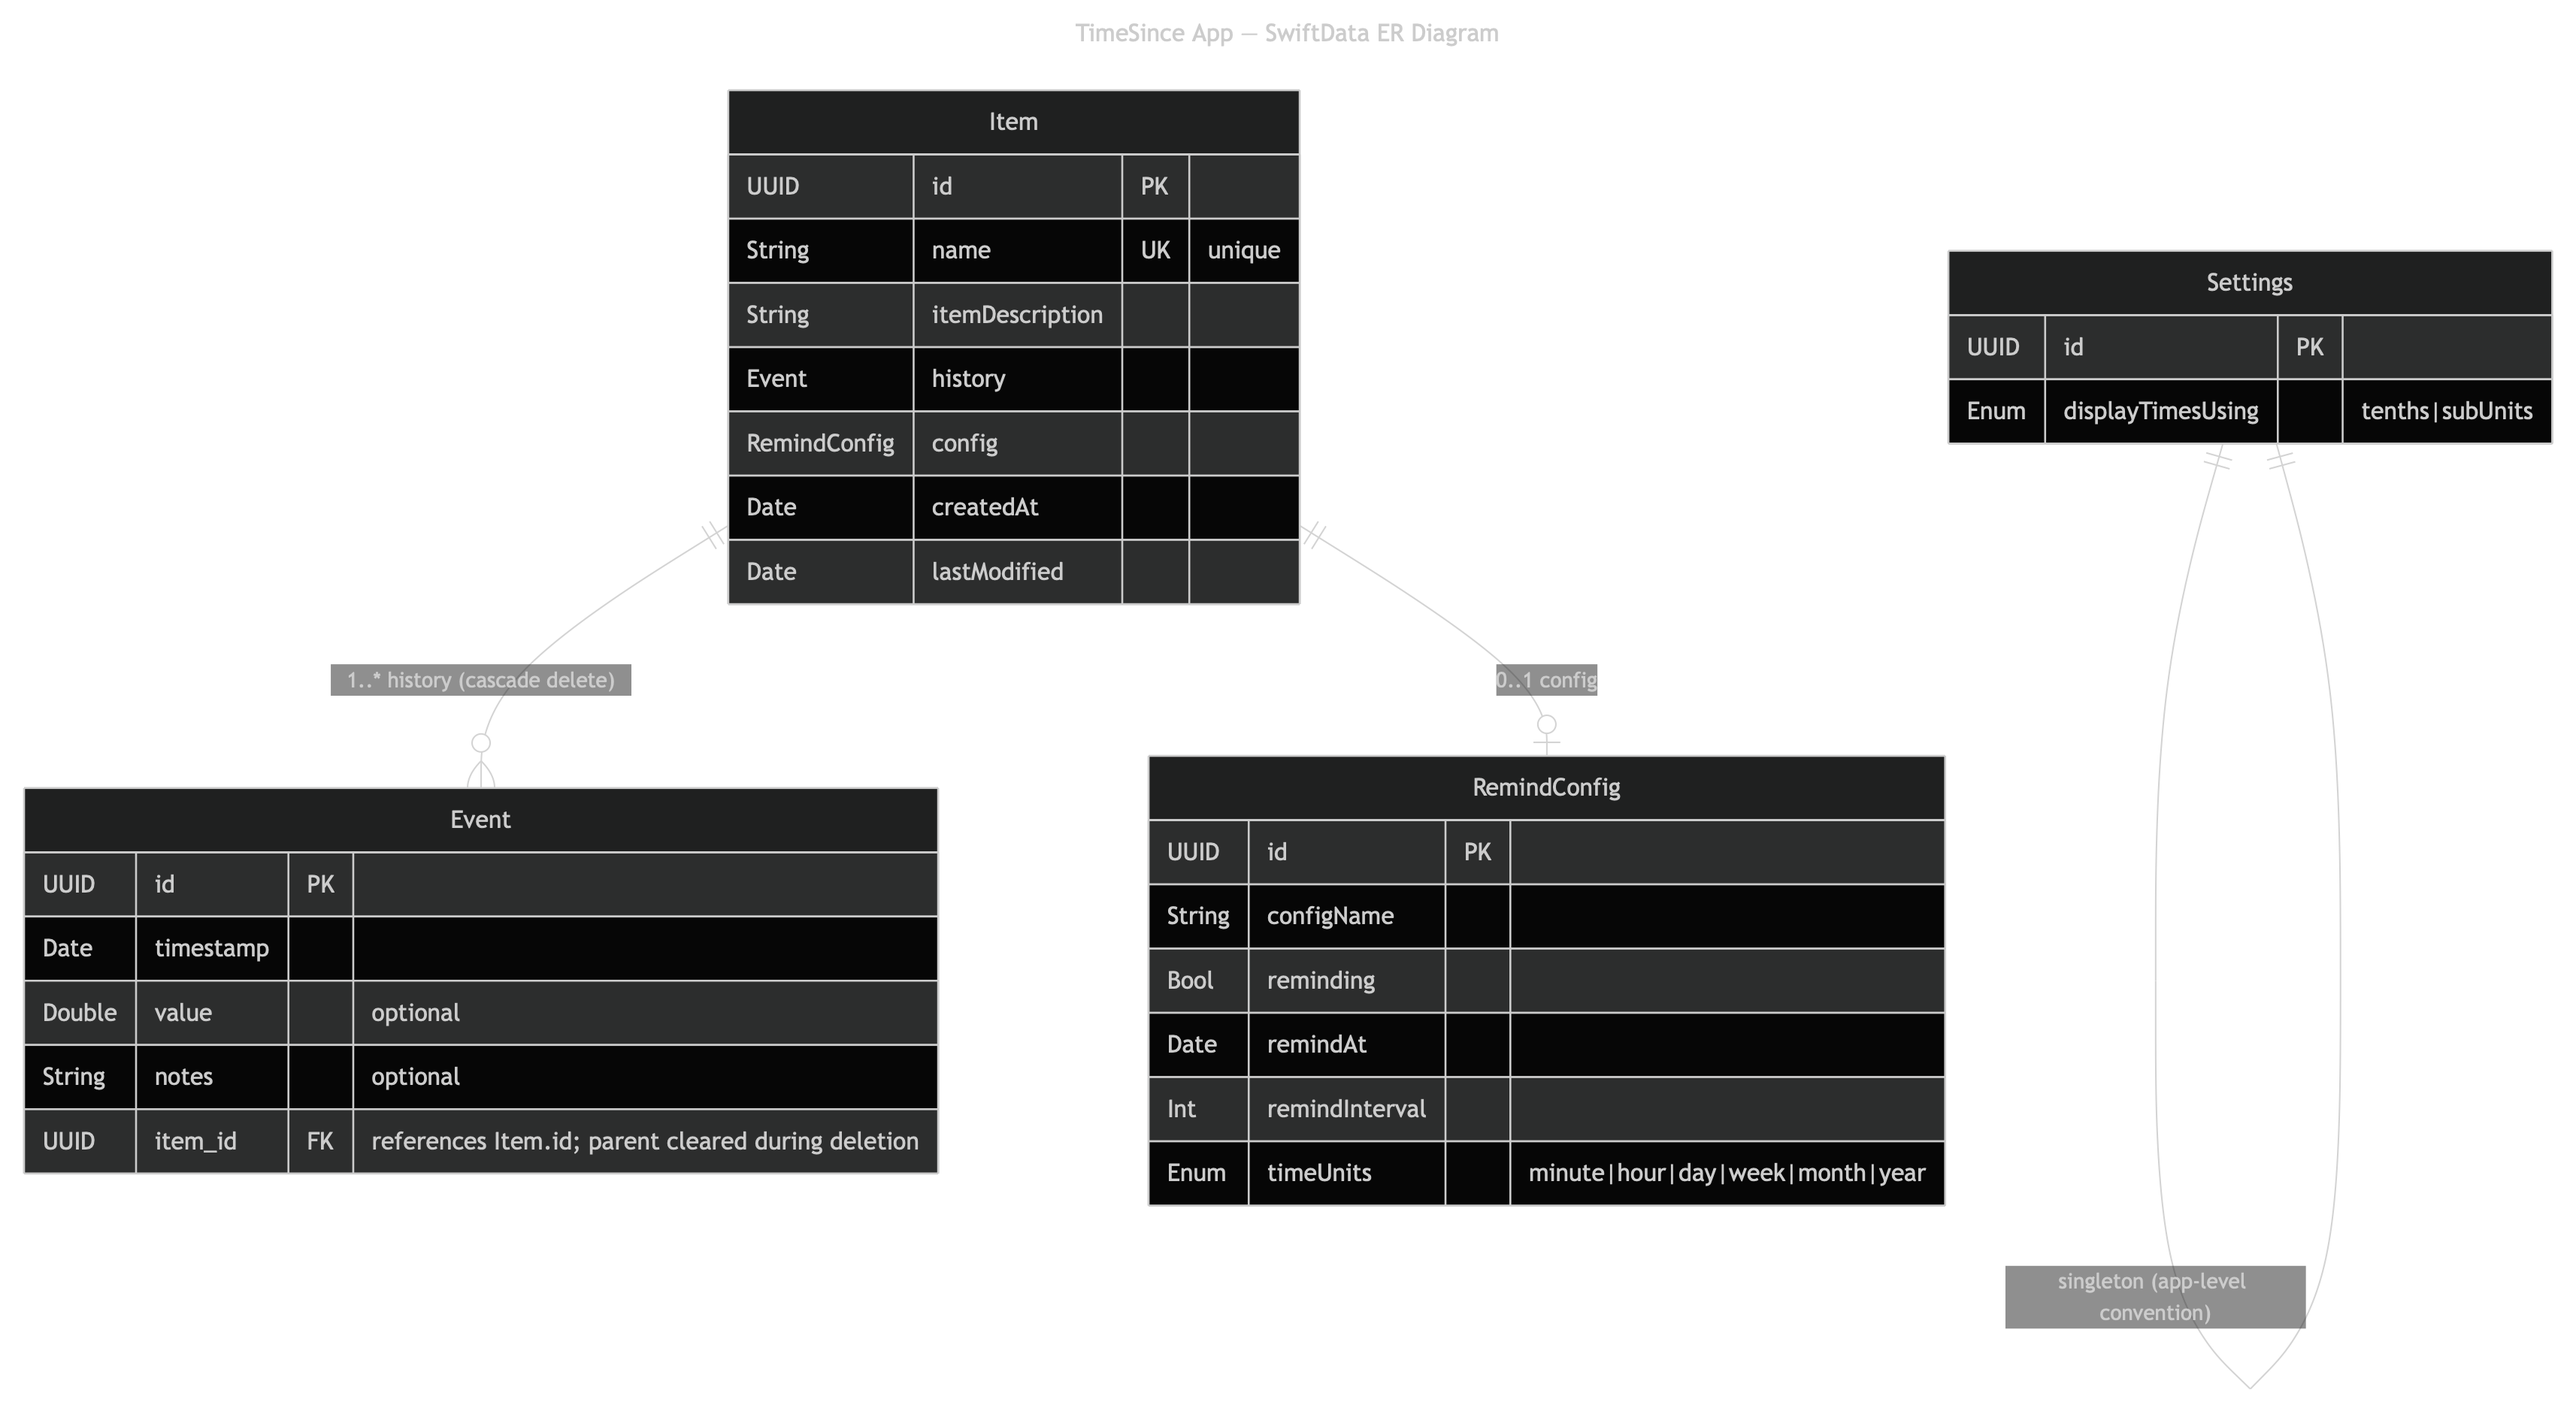
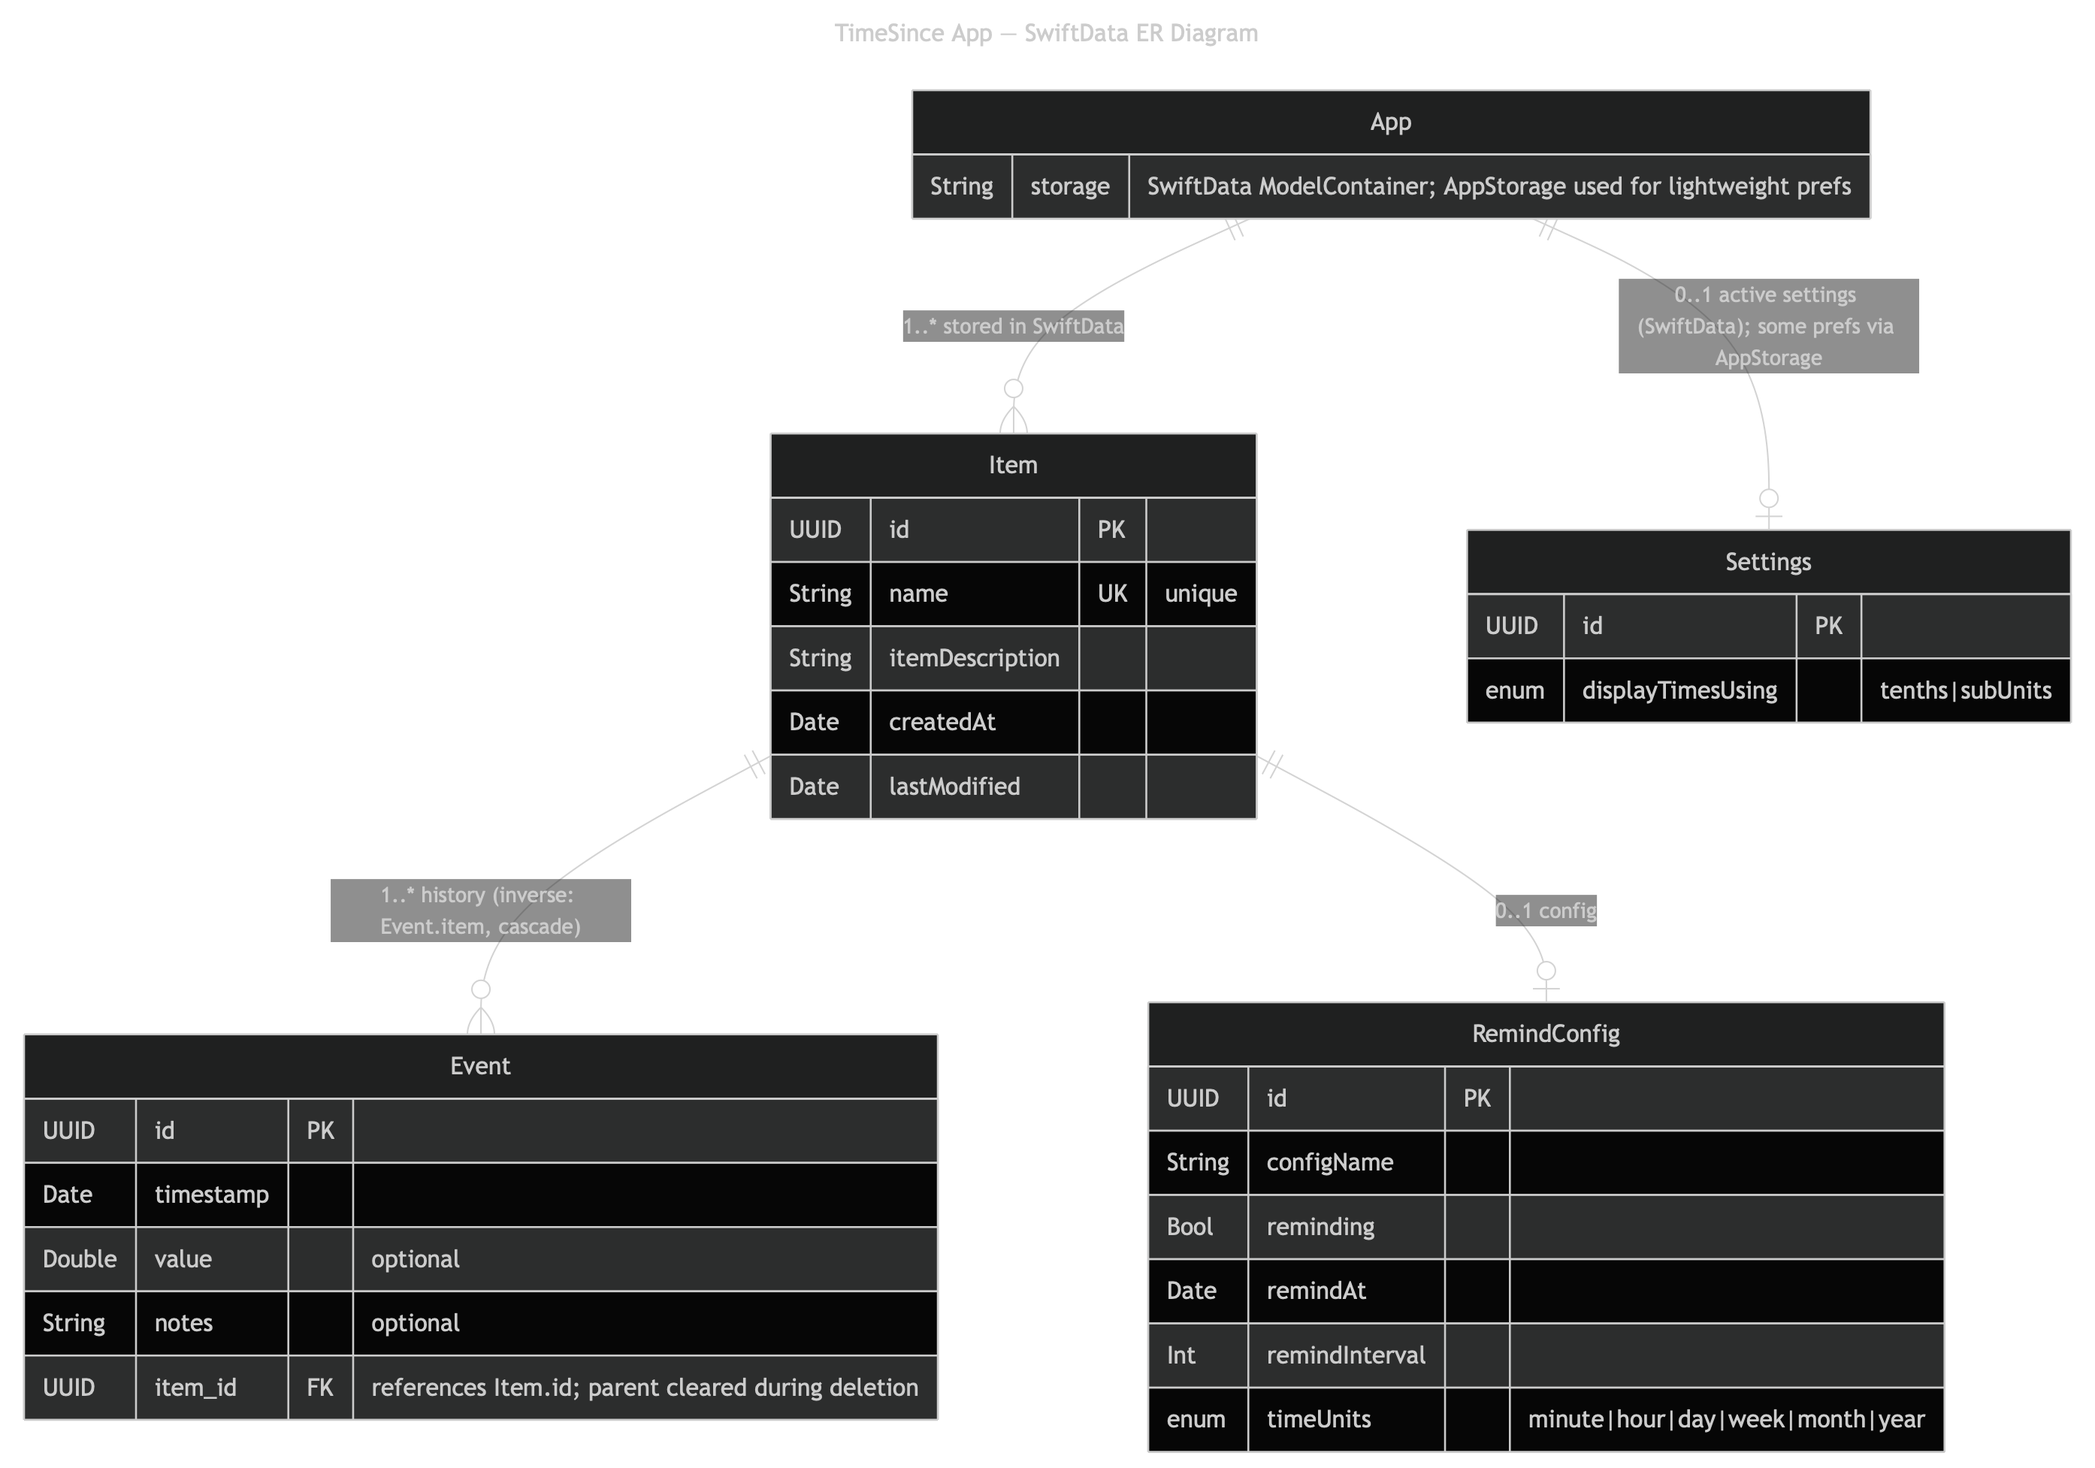
added docs/Schema/README.md and docs/Schema/SchemaV1.md and primary README.md files. This documents SchemaV1 and prepares us for schema evolution in the future.

diff --git a/docs/README.md b/docs/README.md
@@ -1,0 +1,104 @@
+# TimeSince
+
+A SwiftUI app using SwiftData to track items and the time since events, with optional reminders. This repository documents the storage model, schema evolution, and architecture so future migrations are intentional and well-tested.
+
+## Platforms & Requirements
+- iOS 18+ (SwiftUI, SwiftData)
+- Xcode 26+
+- Swift 6.2+
+
+## Architecture Overview
+- **UI**: SwiftUI views with state driven by observable models.
+- **Data**: SwiftData `ModelContainer` for persisted entities; lightweight preferences via `@AppStorage`.
+- **Models**: `Item`, `Event`, `RemindConfig`, `Settings` (see Schema V1 below).
+- **Reminders**: App-level configuration to schedule reminders from `RemindConfig`.
+- **Testing**: Unit and snapshot-style tests planned; schema verification covered by fixtures.
+
+## Models & Storage
+- Storage uses SwiftData with a single `ModelContainer`.
+- Lightweight preferences use `AppStorage` for non-relational flags and UI choices.
+- Entities:
+  - `Item`: unique name, description, timestamps; 1..* relationship to `Event`; optional 0..1 `RemindConfig`.
+  - `Event`: timestamped entries associated to an `Item` (optional back-reference to allow parent clearing on delete), optional value/notes.
+  - `RemindConfig`: enables reminders for an item with interval and unit.
+  - `Settings`: global display settings for times.
+
+## Schema Versioning
+We keep schema versions under `docs/Schema` as V1, V2, ... Each version contains:
+- A locked Mermaid ER diagram derived from model source code.
+- A PNG snapshot exported from the Mermaid diagram (for quick viewing in GitHub).
+- Notes about delete rules, uniqueness, and optionality.
+- Migration plan from the previous version.
+
+Authoritative source of truth is the model code. Diagrams and PNGs are artifacts generated from code.
+
+Current version: **SchemaV1**.
+
+See: `docs/Schema/SchemaV1.md` for the pinned diagram and notes.
+
+# TimeSince App — ER Diagram
+Open with MarkChart for viewing
+
+## Current Schema (SchemaV1)
+The diagram below mirrors the current SwiftData models. The Mermaid source is embedded so it can be rendered by GitHub or tools like MarkChart.
+
+```mermaid
+---
+title: TimeSince App — SwiftData ER Diagram (SchemaV1)
+---
+erDiagram
+    %% Legend:
+    %% - || = exactly one, o| = zero or one, o{ = zero or many
+    %% - Relationship labels include cardinalities, delete rules, and inverses
+
+    %% Pseudo-entity representing app-level storage and configuration
+    App {
+        String storage "SwiftData ModelContainer; AppStorage used for lightweight prefs"
+    }
+
+    %% Entities
+    Item {
+        UUID id PK
+        String name UK "unique"
+        String itemDescription
+        Date createdAt
+        Date lastModified
+    }
+
+    Event {
+        UUID id PK
+        Date timestamp
+        Double value "optional"
+        String notes "optional"
+        UUID item_id FK "references Item.id; parent cleared during deletion"
+    }
+
+    RemindConfig {
+        UUID id PK
+        String configName
+        Bool reminding
+        Date remindAt
+        Int remindInterval
+        enum timeUnits "minute|hour|day|week|month|year"
+    }
+
+    Settings {
+        UUID id PK
+        enum displayTimesUsing "tenths|subUnits"
+    }
+
+    %% Relationships with explicit cardinalities
+    App ||--o{ Item : "1..* stored in SwiftData"
+    App ||--o| Settings : "0..1 active settings (SwiftData); some prefs via AppStorage"
+
+    Item ||--o{ Event : "1..* history (inverse: Event.item, cascade)"
+    Item ||--o| RemindConfig : "0..1 config"
+
+    %% Additional Notes (as comments)
+    %% - Item.name is unique (@Attribute(.unique))
+    %% - Item.history inverse is Event.item; deleteRule: .cascade
+    %% - Event.item is optional to allow SwiftData to clear the parent during deletion
+    %% - RemindConfig.timeUnits uses Units enum: minute|hour|day|week|month|year
+    %% - Settings.displayTimesUsing uses DisplayTimesUsing enum: tenths|subUnits
+    %% - App is a pseudo-entity to document storage: Items/Settings in SwiftData; some lightweight prefs via AppStorage
+```

diff --git a/docs/Schema/README.md b/docs/Schema/README.md
@@ -1,0 +1,19 @@
+# Schema Versioning
+
+Diagrams and snapshots are artifacts derived from model source code. The model code is the source of truth.
+
+## Policy
+- Version directories: `SchemaV1`, `SchemaV2`, ...
+- Each version contains:
+  - Mermaid ER diagram (inline in the version README)
+  - PNG snapshot exported from the Mermaid diagram (checked in for GitHub rendering)
+  - Notes about constraints and delete rules
+  - Migration notes from the previous version
+
+## How to Update
+1. Update SwiftData models in `Models/`.
+2. Regenerate Mermaid ER diagram from models (script/tooling TBD) and update the version README.
+3. Export PNG from Mermaid and place it under `Models/` and/or `docs/Schema/<Version>/`.
+4. Write migration notes and tests.
+
+See `SchemaV1.md` for the initial schema.

diff --git a/docs/Schema/SchemaV1.md b/docs/Schema/SchemaV1.md
@@ -1,5 +1,10 @@
-# TimeSince App — ER Diagram
-Open with MarkChart for viewing
+# SchemaV1
+
+This document pins the initial schema. 
+The Mermaid diagram and PNG are artifacts derived from the SwiftData model code.
+
+- Mermaid ER diagram (embedded below)
+- PNG snapshot: see `Models/TimeSinceERDiagram_SchemaV1` (ensure it is exported from this diagram)
 
 ```mermaid
 ---
